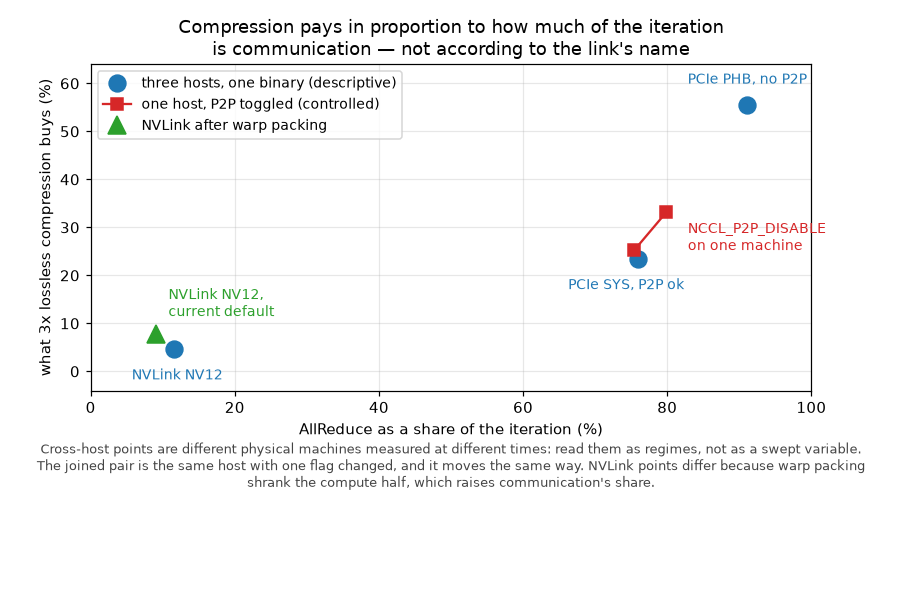
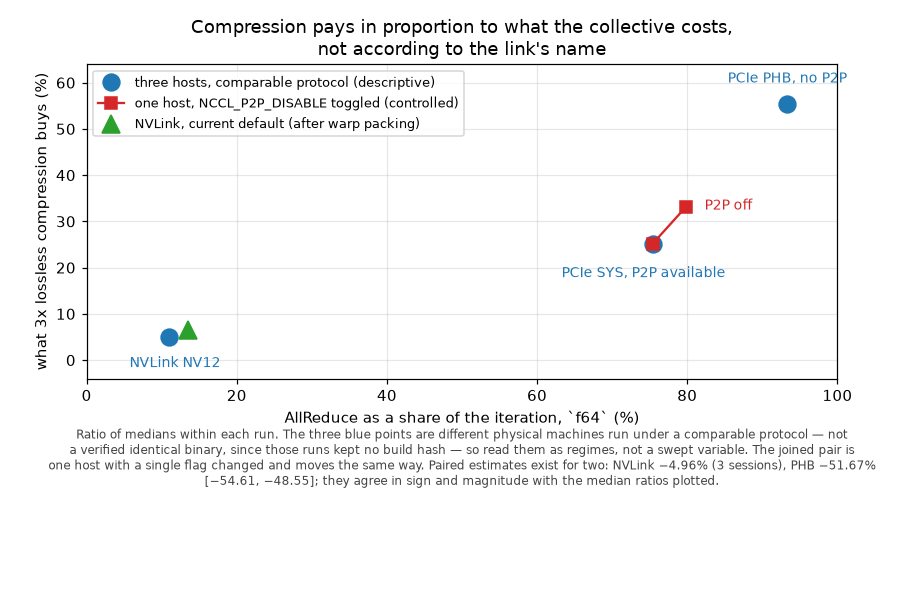
Stop claiming one binary across hosts, and read the regime figure from JSON
The audit records that the NVLink matrix carries no git_sha, the PHB run was a
dirty rsync, and no build hash was kept -- so "three hosts, one binary" was a
claim those runs cannot support. It is "comparable protocol" now, in the README
prose, the findings bullet and the figure legend. The one place "same binary"
survives is the within-host P2P A/B, where it is literally true: one machine,
one session, one flag moved.

The figure hard-coded (91.1%, 55.5%) for the PHB point -- archived 5-trial data
that later work had already superseded. Every point is now computed from its
own result file: NVLink 11.0% -> 5.11%, PCIe SYS with P2P 75.4% -> 25.21%,
without 79.9% -> 33.22%, PHB 93.3% -> 55.41%, plus the current NVLink default.
One estimator throughout (ratio of medians within a run), with the two paired
estimates that exist quoted in the caption rather than mixed into the axis --
mixing them is how the numbers drifted in the first place.

The async spread was still described as proving the effect is "not thermal or
temporal drift" and as "a property of the pipeline", both of which the final
section of the same document already contradicts. Randomised interleaving rules
out an ordering effect, not every temporal mechanism. All three sites now say:
persists under randomised interleaving and across these hosts, magnitude
protocol- and host-dependent -- and note that later runs on the current default
show 10.9-11.2% rather than 13-16%.
[…]

Changed region(s): [[0.031, 0.0303, 0.9623, 0.8182]]

diff --git a/engine/bench/make_regime_figure.py b/engine/bench/make_regime_figure.py
@@ -1,21 +1,21 @@
 """Compression gain against how much of the iteration is communication.
 
-The old interconnect figure plotted two hosts side by side and was captioned as
-three regimes -- it never contained the `PHB` point at all. More importantly, a
-bar chart of two hosts invites the reading "the link causes this", which the
-data cannot support: those are different physical machines measured at
-different times.
+The figure this replaces plotted two hosts as bars and was captioned as three
+regimes -- it never contained the `PHB` point at all, and a two-bar chart
+invites "the link causes this", which separate machines measured at different
+times cannot support.
 
-Plotting the gain against the *communication share* says what is actually
-supported. The three cross-host points are descriptive, and they line up. The
-two joined points are the controlled version -- one host, `NCCL_P2P_DISABLE`
-toggled, everything else fixed -- and they move the same way, which is the
-evidence that the trend is about the share and not about which machine it was.
+Every point below is read from its own result file rather than transcribed,
+because the previous version hard-coded an archived 5-trial pair (91.1%, 55.5%)
+that later work had already superseded (93.3%, 55.41%).
 
-Sources: docs/measurement_audit_20260905.md (three-regime table),
-docs/analysis.md (within-host P2P A/B), results/bench/repro_finalsha.json.
+The y-axis is one consistent statistic: the ratio of the two medians in the
+same run. Two of the points also have a paired estimate with a CI, noted in the
+caption; mixing the two estimators on one axis is how the numbers drifted last
+time.
 """
 
+import json
 import os
 
 import matplotlib
@@ -24,64 +24,75 @@ import matplotlib.pyplot as plt
 
 ROOT = os.path.dirname(os.path.dirname(os.path.dirname(os.path.abspath(__file__))))
 
-# (communication share %, compression gain %, label)
-CROSS = [(11.6, 4.7, "NVLink NV12"),
-         (76.0, 23.5, "PCIe SYS, P2P ok"),
-         (91.1, 55.5, "PCIe PHB, no P2P")]
-# same host, one variable moved: NCCL_P2P_DISABLE on/off
-P2P = [(75.4, 25.2, "P2P on"), (79.9, 33.2, "P2P off")]
-# the current default, after warp packing made the compute half smaller
-NOW = (9.1, 7.70, "NVLink NV12,\ncurrent default")
+
+def bench_point(name):
+    d = json.load(open(os.path.join(ROOT, "results/bench", name)))
+    by = {r["config"]: r for r in d["results"] if "median_s" in r}
+    f, p = by["nccl_sync_g2_f64"], by["nccl_sync_g2_packed"]
+    return (f["median_allreduce_s"] / f["median_s"] * 100,
+            (1 - p["median_s"] / f["median_s"]) * 100)
+
+
+def p2p_point(suffix):
+    d = json.load(open(os.path.join(ROOT, "results/bench/p2p_ab.json")))
+    f, p = d[f"sync_f64_{suffix}"], d[f"sync_packed_{suffix}"]
+    return (f["allreduce_ms"] / f["median_ms"] * 100,
+            (1 - p["median_ms"] / f["median_ms"]) * 100)
 
 
 def main():
-    fig, ax = plt.subplots(figsize=(8.2, 5.4))
+    nv_old = bench_point("bench_20260905_064736.json")     # NVLink, pre-packing
+    nv_now = bench_point("bench_20260906_044118.json")     # NVLink, current default
+    phb = bench_point("bench_20260905_082024.json")        # PCIe PHB, no P2P
+    on, off = p2p_point("p2pon"), p2p_point("p2poff")      # one host, flag toggled
 
-    xs = [p[0] for p in CROSS]
-    ys = [p[1] for p in CROSS]
+    fig, ax = plt.subplots(figsize=(8.4, 5.6))
+
+    xs, ys = zip(nv_old, on, phb)
     ax.plot(xs, ys, "o", ms=11, color="#1f77b4", zorder=3,
-            label="three hosts, one binary (descriptive)")
-    offsets = {"NVLink NV12": (2, -20), "PCIe SYS, P2P ok": (-8, -20),
-               "PCIe PHB, no P2P": (0, 14)}
-    for x, y, lab in CROSS:
-        dx, dy = offsets[lab]
-        ax.annotate(lab, (x, y), xytext=(dx, dy), textcoords="offset points",
+            label="three hosts, comparable protocol (descriptive)")
+    for (x, y), lab, off_xy in ((nv_old, "NVLink NV12", (4, -20)),
+                                (on, "PCIe SYS, P2P available", (-6, -22)),
+                                (phb, "PCIe PHB, no P2P", (0, 14))):
+        ax.annotate(lab, (x, y), xytext=off_xy, textcoords="offset points",
                     ha="center", fontsize=9, color="#1f77b4")
 
-    px = [p[0] for p in P2P]
-    py = [p[1] for p in P2P]
-    ax.plot(px, py, "s-", ms=8, color="#d62728", zorder=4,
-            label="one host, P2P toggled (controlled)")
-    ax.annotate("NCCL_P2P_DISABLE\non one machine", (px[1], py[1]),
-                xytext=(14, -6), textcoords="offset points", fontsize=9,
-                color="#d62728", va="top")
+    ax.plot([on[0], off[0]], [on[1], off[1]], "s-", ms=8, color="#d62728",
+            zorder=4, label="one host, NCCL_P2P_DISABLE toggled (controlled)")
+    ax.annotate("P2P off", (off[0], off[1]), xytext=(12, -2),
+                textcoords="offset points", fontsize=9, color="#d62728")
 
-    ax.plot([NOW[0]], [NOW[1]], "^", ms=12, color="#2ca02c", zorder=5,
-            label="NVLink after warp packing")
-    ax.annotate(NOW[2], (NOW[0], NOW[1]), xytext=(8, 12),
-                textcoords="offset points", fontsize=9, color="#2ca02c")
+    ax.plot([nv_now[0]], [nv_now[1]], "^", ms=12, color="#2ca02c", zorder=5,
+            label="NVLink, current default (after warp packing)")
 
-    ax.set_xlabel("AllReduce as a share of the iteration (%)")
+    ax.set_xlabel("AllReduce as a share of the iteration, `f64` (%)")
     ax.set_ylabel("what 3x lossless compression buys (%)")
-    ax.set_title("Compression pays in proportion to how much of the iteration\n"
-                 "is communication — not according to the link's name")
+    ax.set_title("Compression pays in proportion to what the collective costs,\n"
+                 "not according to the link's name")
     ax.grid(alpha=.3)
     ax.set_xlim(0, 100)
     ax.set_ylim(-4, 64)
-    ax.legend(loc="upper left", fontsize=9)
+    ax.legend(loc="upper left", fontsize=8.5)
     ax.text(0.5, -0.155,
-            "Cross-host points are different physical machines measured at "
-            "different times: read them as regimes, not as a swept variable.\n"
-            "The joined pair is the same host with one flag changed, and it "
-            "moves the same way. NVLink points differ because warp packing\n"
-            "shrank the compute half, which raises communication's share.",
-            transform=ax.transAxes, ha="center", va="top", fontsize=8.5,
+            "Ratio of medians within each run. The three blue points are "
+            "different physical machines run under a comparable protocol — not\n"
+            "a verified identical binary, since those runs kept no build hash — "
+            "so read them as regimes, not a swept variable. The joined pair is\n"
+            "one host with a single flag changed and moves the same way. Paired "
+            "estimates exist for two: NVLink −4.96% (3 sessions), PHB −51.67%\n"
+            "[−54.61, −48.55]; they agree in sign and magnitude with the "
+            "median ratios plotted.",
+            transform=ax.transAxes, ha="center", va="top", fontsize=8,
             color="#444444")
 
-    fig.tight_layout(rect=[0, 0.11, 1, 1])
+    fig.tight_layout(rect=[0, 0.14, 1, 1])
     out = os.path.join(ROOT, "results/figures/compression_regimes.png")
     fig.savefig(out, dpi=110)
     print("wrote:", os.path.relpath(out, ROOT))
+    for lab, pt in (("NVLink pre-packing", nv_old), ("NVLink current", nv_now),
+                    ("PCIe SYS P2P on", on), ("PCIe SYS P2P off", off),
+                    ("PCIe PHB no P2P", phb)):
+        print(f"  {lab:<22s} share {pt[0]:5.1f}%   compression {pt[1]:5.2f}%")
 
 
 if __name__ == "__main__":

diff --git a/README.md b/README.md
@@ -33,10 +33,10 @@ is over the rating dimension, `pack(a) + pack(b) == pack(a + b)` — NCCL never
 sees the uncompressed form.
 
 What that 3x is worth **tracks how much of the iteration is communication**:
-9% of the iteration on NVLink buys 7.7%; 91% on a host-staged PCIe link buys
-55%. Those are different physical machines measured at different times, so read
-them as two regimes rather than one variable swapped — but toggling P2P on a
-*single* host moves the same way with everything else fixed, which is what
+where the AllReduce is 13% of the iteration it buys ~7%; where it is 93% it
+buys ~55%. Those are different physical machines measured at different times,
+so read them as regimes rather than one variable swapped — but toggling P2P on
+a *single* host moves the same way with everything else fixed, which is what
 makes the trend more than a coincidence of hardware.
 
 **Compressing a collective pays in proportion to what the collective costs** —
@@ -92,8 +92,10 @@ End-to-end RMSE 0.8652 against the archived Spark model's 0.8657.
 
 ![Compression gain against communication share, three regimes](results/figures/compression_regimes.png)
 
-Three hosts, one binary: 11.6% / 76% / 91% communication buys 4.7% / 23.5% /
-55.5%. Those are separate machines, so the line through them is descriptive.
+Three hosts under a comparable protocol — same sources and timing contract,
+but no build hash was kept, so an identical binary is intended rather than
+evidenced. Communication shares of 11% / 75% / 93% buy 5.1% / 25.2% / 55.4%.
+Separate machines, so read the trend as descriptive.
 The joined red pair is the controlled version — one host, `NCCL_P2P_DISABLE`
 toggled, nothing else moved — and it shifts the same way, which is what turns
 "these three hosts happened to line up" into a trend worth stating.
@@ -118,8 +120,9 @@ the previous mapping, with no cold-path penalty. The sort adds another −16.39%
 ## Findings and limitations
 
 - **Compression pays only when the collective is the bottleneck.** 7.7% on
-  NVLink, 55% on PCIe, same binary. Lossless by construction, so the bit-exact
-  contract survives it untouched.
+  NVLink, 55% on a host-staged PCIe link. Lossless by construction, so the
+  bit-exact contract survives it untouched. The three hosts ran comparable
+  builds, not a verified identical one.
 - **Async overlap loses on a fast link**, and this corrects the project's
   original hypothesis. Overlap's ceiling is `min(compute, comm)/total`: it pays
   when the two are comparable, not when communication is large.
@@ -165,7 +168,7 @@ export, benchmark sweeps, RMSE — is in
 | Date | What changed | Where |
 | --- | --- | --- |
 | 2026-08-28 | Baseline: serial / OpenMP / MPI / CUDA / NCCL behind one frozen contract. Lossless 3x payload compression, reduced in place. | — |
-| 2026-08-29 | Compression measured on NVLink and PCIe. **The verdict reverses with the link** — the project's central finding. | [analysis](docs/analysis.md) |
+| 2026-08-29 | Compression measured on NVLink and PCIe: a single-digit gain on one, ~55% on the other. *Initial reading — "the link decides" — later refined to communication share, and the cross-host comparison downgraded to descriptive.* | [analysis](docs/analysis.md) |
 | 2026-09-04 | Async PCIe penalty traced to finalize occupying the communication stream. Timing contract unified; run order randomised; every figure redrawn at 30 trials. | [audit](docs/measurement_audit_20260905.md) |
 | 2026-09-05 | **Measurement audit.** Several published numbers did not mean what they said: the headline mixed two machines, NCCL sync excluded its finalize kernel, "sixteen bits" was 85. Headline rebuilt on one machine, one timing basis. | [audit](docs/measurement_audit_20260905.md) |
 | 2026-09-05 | **Warp packing implemented** — a sub-warp per pair instead of a warp. Default becomes `--group 4 --pair-order source`. The lane-slot model that motivated it does not explain it. | [warp packing](docs/warp_packing_experiment_20260905.md) |

diff --git a/docs/measurement_audit_20260905.md b/docs/measurement_audit_20260905.md
@@ -514,10 +514,13 @@ Steps 1–2 of the corrected plan, plus the nccl-tests baseline. One host
 
 **Randomisation changed the noise picture, but not where expected.** With
 configurations interleaved, `sync` and single-GPU rows tighten to 0.22–1.12%
-IQR. The async 2-GPU rows stay at **13–16%**. So that spread is not thermal or
-temporal drift being mistaken for a configuration effect. (It later reproduced
-across three independent pods as well — 16.3% / 16.4% / 15.6% — which is what
-justifies calling it a property of the pipeline rather than of a session.)
+IQR. The async 2-GPU rows stay at **13–16%**. Interleaving rules out a simple
+ordering effect — a spread that came from draining one configuration before the
+next would have collapsed — but not every temporal or thermal mechanism. The
+spread **persists under randomised interleaving and across these hosts**
+(16.3% / 16.4% / 15.6% on three independent pods); its magnitude remains
+protocol- and host-dependent, and later runs on the current default show
+10.9–11.2%.
 
 **The headline speedups were always steady-state.** Every backend now reports
 `device_total = stats + allreduce + finalize` and, alongside it, a cold-path
@@ -628,9 +631,10 @@ and the randomised headline matrix's −5.11% sits in the same range. The
 compression number is reproducible.
 
 The async noise reproduces too: 16.3%, 16.4%, 15.6% IQR on `async packed`
-across the three sessions. Persisting under randomised interleaving *and*
-across independent pods is enough to call it a property of the pipeline rather
-than of any one session.
+across the three sessions. It **persists under randomised interleaving and
+across these hosts**, so it is not an artefact of one session; its magnitude
+remains protocol- and host-dependent, and is not established as a property of
+the pipeline as such.
 
 **The nccl-tests baseline, redone properly** — exact byte counts, matching
 dtypes, in-place column (the engine's collective is `ncclAllReduce(slot, slot,
